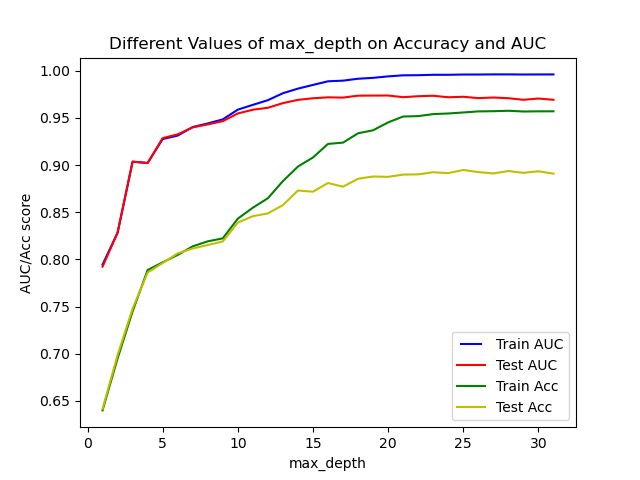
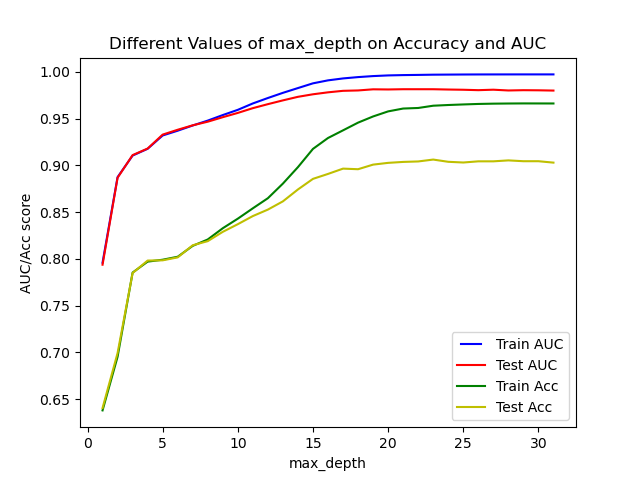
Factorized the auc rf turning to make it easier to navigate

diff --git a/1.6_models.py b/1.6_models.py
@@ -17,7 +17,6 @@ from matplotlib.legend_handler import HandlerLine2D
 RANDOM_STATE = 42
 K_FOLD = 10         # can change, value has to be justified in report
 
-
 def read_data(path):
     data = pd.read_csv(path, skipinitialspace=True)
     return data
@@ -97,7 +96,7 @@ def plot_roc_model(clf, x, y):
     plt.show()
     return 
 
-def test_hyper_param(model, x_train, x_test, y_train, y_test, values, params, param: str):
+def tune_hparam_auc_acc(model, x_train, x_test, y_train, y_test, values, params, param: str):
     train_results = []
     test_results = []
     train_accuracies = []
@@ -123,6 +122,29 @@ def test_hyper_param(model, x_train, x_test, y_train, y_test, values, params, pa
     plt.xlabel(param)
     plt.title('Different Values of ' + param + ' on Accuracy and AUC')
     plt.savefig('./all_data/partB/plots/auc_acc_' + param + '.png')
+    
+def plot_auc_rf_tuning(rfmodel, x_train, x_test, y_train, y_test):
+    n_estimators = [1, 2, 4, 8, 16, 32, 64, 128] # >40 is good
+    tune_hparam_auc_acc(model_rf, x_train, x_test, y_train, y_test,
+                     n_estimators, {'random_state': RANDOM_STATE}, 'n_estimators')
+    max_depths = range(1, 32) # >20 is good
+    tune_hparam_auc_acc(model_rf, x_train, x_test, y_train, y_test,
+                     max_depths, {'n_estimators': 40, 'random_state': RANDOM_STATE}, 'max_depth')
+    max_features = ['sqrt', 'log2', len(x_train[0]), None] # sqrt is best
+    tune_hparam_auc_acc(model_rf, x_train, x_test, y_train, y_test,
+                     max_features, {'n_estimators': 40, 'random_state': RANDOM_STATE}, 'max_features')
+    # 1% to 50% of total data
+    min_samples_splits = np.linspace(0.01, 0.5, 50, endpoint=True) # Lower is better (Only raise if not enough time/resources)
+    tune_hparam_auc_acc(model_rf, x_train, x_test, y_train, y_test,
+                     min_samples_splits, {'n_estimators': 40, 'random_state': RANDOM_STATE}, 'min_samples_split')
+    # 1% to 50% of total data
+    min_samples_leafs = np.linspace(0.01, 0.5, 50, endpoint=True) # Lower is better (Only raise if not enough time/resources)
+    tune_hparam_auc_acc(model_rf, x_train, x_test, y_train, y_test,
+                     min_samples_leafs, {'n_estimators': 40, 'random_state': RANDOM_STATE}, 'min_samples_leaf')
+    criterions = ['gini', 'entropy'] # No effect
+    tune_hparam_auc_acc(model_rf, x_train, x_test, y_train, y_test,
+                     criterions, {'n_estimators': 40, 'random_state': RANDOM_STATE}, 'criterion')
+    return
     
 '''For labelling test data without predictions of the outcome_group'''
 def create_submission_file(y_preds, file_name):
@@ -161,9 +183,9 @@ def main():
     
     # Smaller max_features reduces overfitting; sqrt is best for classification generally
     # https://datascience.stackexchange.com/questions/66825/how-many-features-does-random-forest-need-for-the-trees
-    rf_params = {'n_estimators': 5, 'criterion': 'gini', 
+    rf_params = {'n_estimators': 40, 'criterion': 'gini', 
                  'min_samples_split': 2, 'min_samples_leaf': 1,  
-                 'max_features': 'sqrt', 'max_depth': 24,
+                 'max_features': 'sqrt', 'max_depth': 20,
                  'random_state': RANDOM_STATE}
     
     print("\nWithout Scalers(): ")
@@ -181,32 +203,18 @@ def main():
     # model_rf(x_train_standard, x_test_standard, y_train, y_test, rf_params)
     
     
-    
     # TODO: Hyperparameter tuning with GridSearchCV, RandomSearchCV, BayesianOptimization
     
     # "For this project, the goal is to predict the outcome (hospitalized, non-hospitalized, deceased)
     # of a case correctly with a small number of false negatives and false positives"
     
     # Determined ROC curves to obtain good False Positive / True Positive rates 
-    # Graphing purposes!!! - ROC curves can be seen if you uncomment in model
-    max_depths = range(1, 32) # >24 is good
-    test_hyper_param(model_rf, x_train, x_test, y_train, y_test,
-                     max_depths, {'n_estimators': 5, 'random_state': RANDOM_STATE}, 'max_depth')
-    max_features = ['sqrt', 'log2', len(train_cases.drop('outcome_group', axis=1).columns)-1, None] # sqrt is best
-    test_hyper_param(model_rf, x_train, x_test, y_train, y_test,
-                     max_features, {'n_estimators': 5, 'random_state': RANDOM_STATE}, 'max_features')
-    # 1% to 50% of total data
-    min_samples_splits = np.linspace(0.01, 0.5, 50, endpoint=True) # Lower is better (Only raise if not enough time/resources)
-    test_hyper_param(model_rf, x_train, x_test, y_train, y_test,
-                     min_samples_splits, {'n_estimators': 5, 'random_state': RANDOM_STATE}, 'min_samples_split')
-    # 1% to 50% of total data
-    min_samples_leafs = np.linspace(0.01, 0.5, 50, endpoint=True) # Lower is better (Only raise if not enough time/resources)
-    test_hyper_param(model_rf, x_train, x_test, y_train, y_test,
-                     min_samples_leafs, {'n_estimators': 5, 'random_state': RANDOM_STATE}, 'min_samples_leaf')
-    criterions = ['gini', 'entropy'] # No effect
-    test_hyper_param(model_rf, x_train, x_test, y_train, y_test,
-                     criterions, {'n_estimators': 5, 'random_state': RANDOM_STATE}, 'criterion')
+    # He means F1 precision and recall probably, but ROC can work as well
+    # Graphing purposes!!! - ROC curves can be seen if you uncomment it in the used model
+    # Comment out to reduce processing time
+    plot_auc_rf_tuning(model_rf, x_train, x_test, y_train, y_test)
     
+
     # TODO: Best model with best parameters
     # best_model = ...
     
